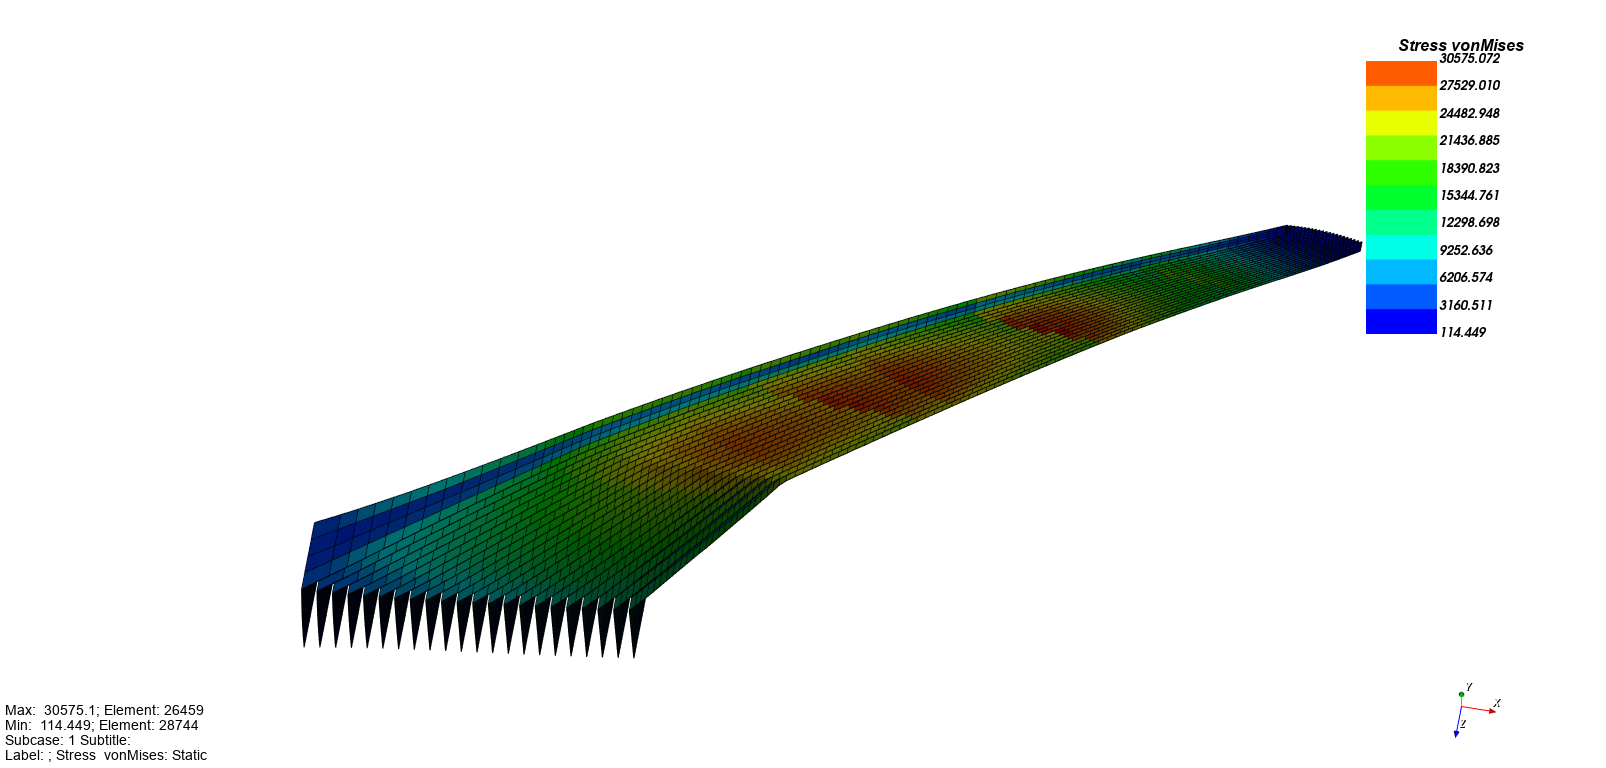
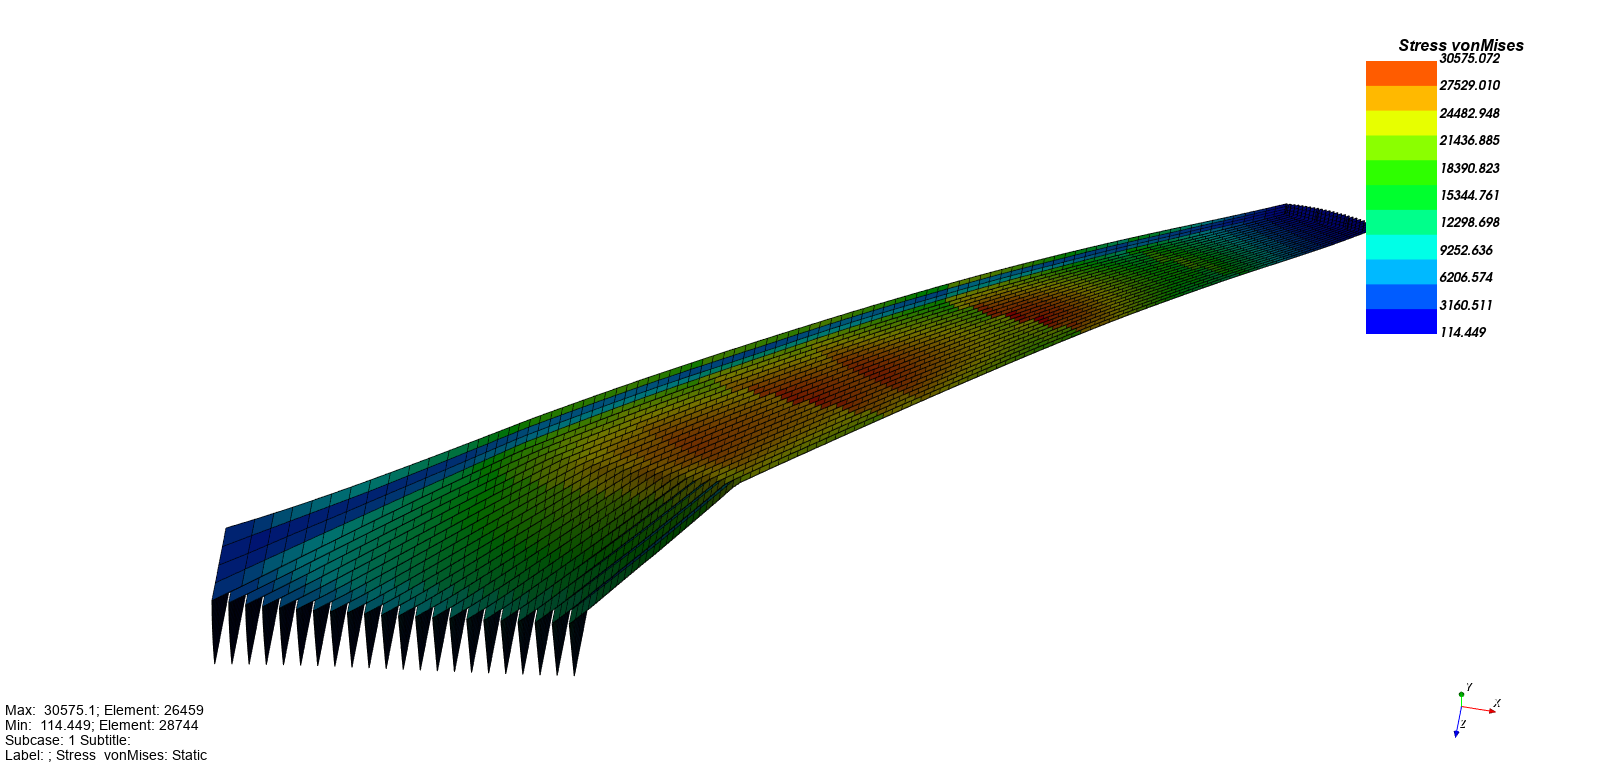
Fix: isolated renders leaked orphaned nodes into the zoom auto-fit
Found while validating the analytic zoom fit (PR #36) against a real,
different aerospace wing model (pCRM9, Delft/UMich, downloaded fresh for
this specific test): isolating a single small, spatially localized panel
rendered correctly-shaped but tiny, unlike every isolated render tested
against the NASA CRM wingbox.

Root cause: _write_filtered_bdf only ever popped hidden elements from
model.elements -- pyNastran's write_bdf doesn't prune GRID nodes no
longer referenced by anything, so every original node stayed in the file
regardless of how few elements survived. Those orphaned nodes' coordinates
still land in self.grid's point cloud once loaded, so fit_block's "project
the loaded mesh points" measurement silently included the full original
model's footprint instead of just the isolated subset's. This never
surfaced against the NASA CRM wingbox because every isolated group tested
there (ribs, skin panels) already spans nearly the whole span-wise length,
so the inflated bounding box barely differed from the true one -- a
single small bay's panel from a structurally different wing made the gap
impossible to miss (a supposedly ~68-node isolated panel still measured
~1400+ nodes wide).

Fixed using pyNastran's own remove_unused utility rather than a hand-
rolled "keep nodes referenced by a remaining element" check -- the first
version of that hand-rolled check pruned a node a FORCE card still
referenced, producing a BDF with a dangling reference pyNastranGUI
[…]

Changed region(s): [[0.1245, 0.25, 0.8717, 0.875]]

diff --git a/scripts/mcp_server.py b/scripts/mcp_server.py
@@ -843,14 +843,72 @@ def _write_filtered_bdf(bdf_path: Path, hidden_eids: set[int], output_path: Path
     within 180s (possibly hung, not just slow) on the full ~35k-element
     wingbox model. Rewriting the deck without the unwanted elements before
     the GUI ever loads it is simpler and avoids that entirely.
+
+    Also drops any GRID node no longer referenced by anything (element,
+    load, SPC, ...) via pyNastran's own remove_unused -- popping elements
+    alone leaves every original node in place (pyNastran's write_bdf
+    doesn't prune unreferenced GRIDs on its own), which isn't just wasted
+    bytes: those orphaned nodes' coordinates still show up in self.grid's
+    point cloud once loaded, silently pulling in the FULL original model's
+    footprint for anything that measures the loaded geometry's extent (see
+    _build_postscript's fit_block). Went unnoticed against the NASA CRM
+    wingbox case study because every isolated group tested there (ribs,
+    skin panels) happened to already span nearly the whole span-wise
+    length, so the inflated bounding box barely differed from the true
+    one -- confirmed as a real bug only when isolating a single small,
+    spatially localized panel from a *different* case study model, where
+    the true extent was a small fraction of the original and the render
+    came out tiny instead of filling the frame.
+
+    remove_unused (rather than a hand-rolled "prune nodes not referenced
+    by a remaining element") is what correctly keeps a node alive when
+    it's only referenced by a FORCE/SPC1/etc. card and no element -- a
+    first attempt that only checked element references pruned a node a
+    FORCE card still pointed at, leaving a dangling reference pyNastranGUI
+    couldn't load. It also needs the popped-element model round-tripped
+    through a write+re-read first: calling remove_unused directly against
+    a model that had elements popped via a raw dict .pop() hit a KeyError,
+    since pyNastran's internal id-tracking caches go stale when bulk data
+    dicts are mutated directly instead of through its own removal API --
+    re-reading a freshly-written copy rebuilds those caches consistently.
+
+    Loads, constraints, masses, and rigid elements are dropped entirely
+    first (rather than left for remove_unused to consider) -- confirmed
+    necessary against a real model with a broad symmetry SPC1 (~60 nodes
+    spread across the whole structure) plus CONM2 fuel masses and RBE2/
+    RBE3 rigid elements each touching hundreds more: remove_unused
+    correctly treats every node any of those reference as "in use" (it
+    has no way to know this copy will only ever be rendered, never
+    solved), which defeated pruning almost completely -- a supposedly
+    68-node isolated panel still came out with 1451 nodes attached. None
+    of these card types affect what actually gets drawn (pyNastranGUI
+    doesn't render SPC/load/mass/rigid symbols the way it renders
+    elements), so dropping them outright is safe for a render-only copy.
     """
     from pyNastran.bdf.bdf import BDF
+    from pyNastran.bdf.mesh_utils.remove_unused import remove_unused
 
     model = BDF()
     model.read_bdf(str(bdf_path), xref=False)
     for eid in hidden_eids:
         model.elements.pop(eid, None)
-    model.write_bdf(str(output_path), size=8, enddata=True)
+    for attr in (
+        "spcs", "spcadds", "loads", "load_combinations",
+        "masses", "mpcs", "mpcadds", "rigid_elements",
+    ):
+        getattr(model, attr).clear()
+
+    with tempfile.TemporaryDirectory() as tmpdir:
+        elements_removed_path = Path(tmpdir) / "elements_removed.bdf"
+        model.write_bdf(str(elements_removed_path), size=8, enddata=True)
+
+        pruned_model = BDF()
+        pruned_model.read_bdf(str(elements_removed_path), xref=False)
+        remove_unused(
+            pruned_model, remove_nids=True, remove_cids=True, remove_pids=True,
+            remove_mids=True, remove_spcs=True, remove_mpcs=True,
+        )
+        pruned_model.write_bdf(str(output_path), size=8, enddata=True)
 
 
 def _write_filtered_op2(op2_path: Path, kept_eids: set[int], output_path: Path) -> None:
